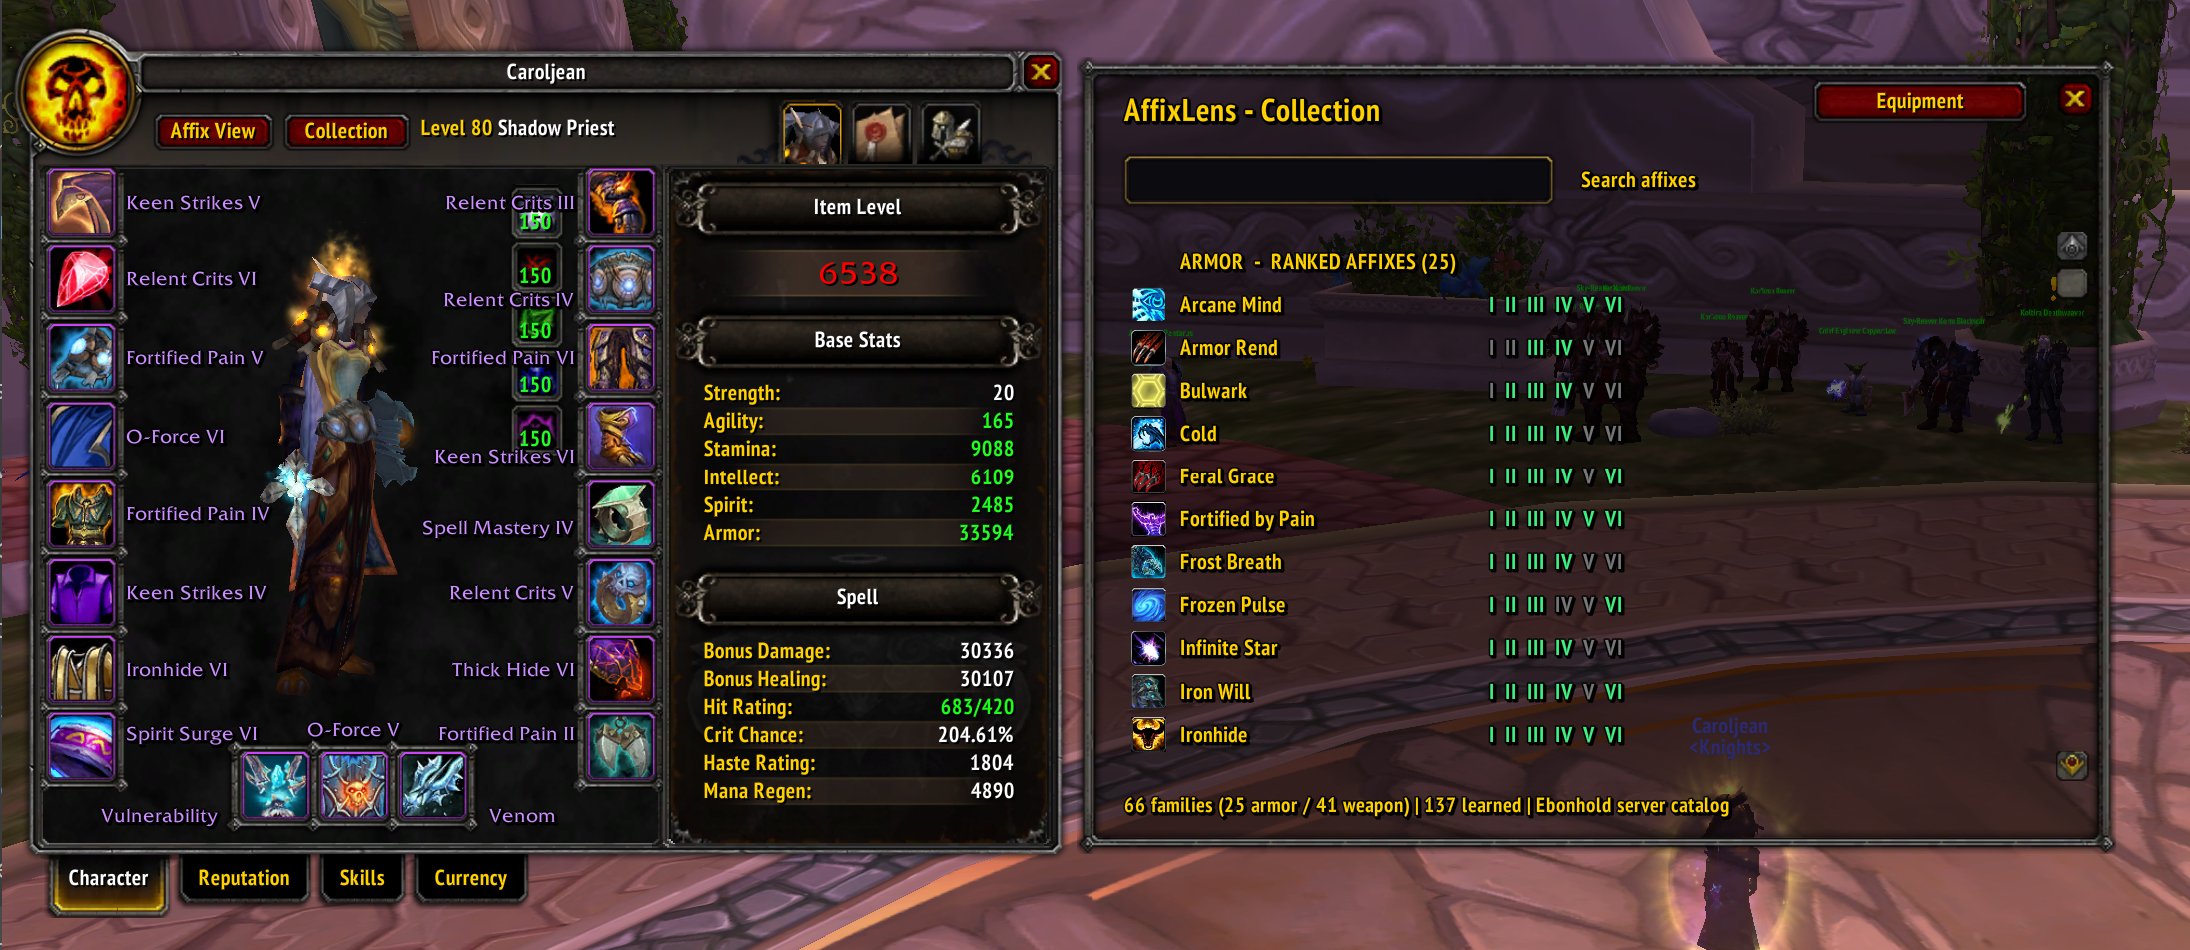
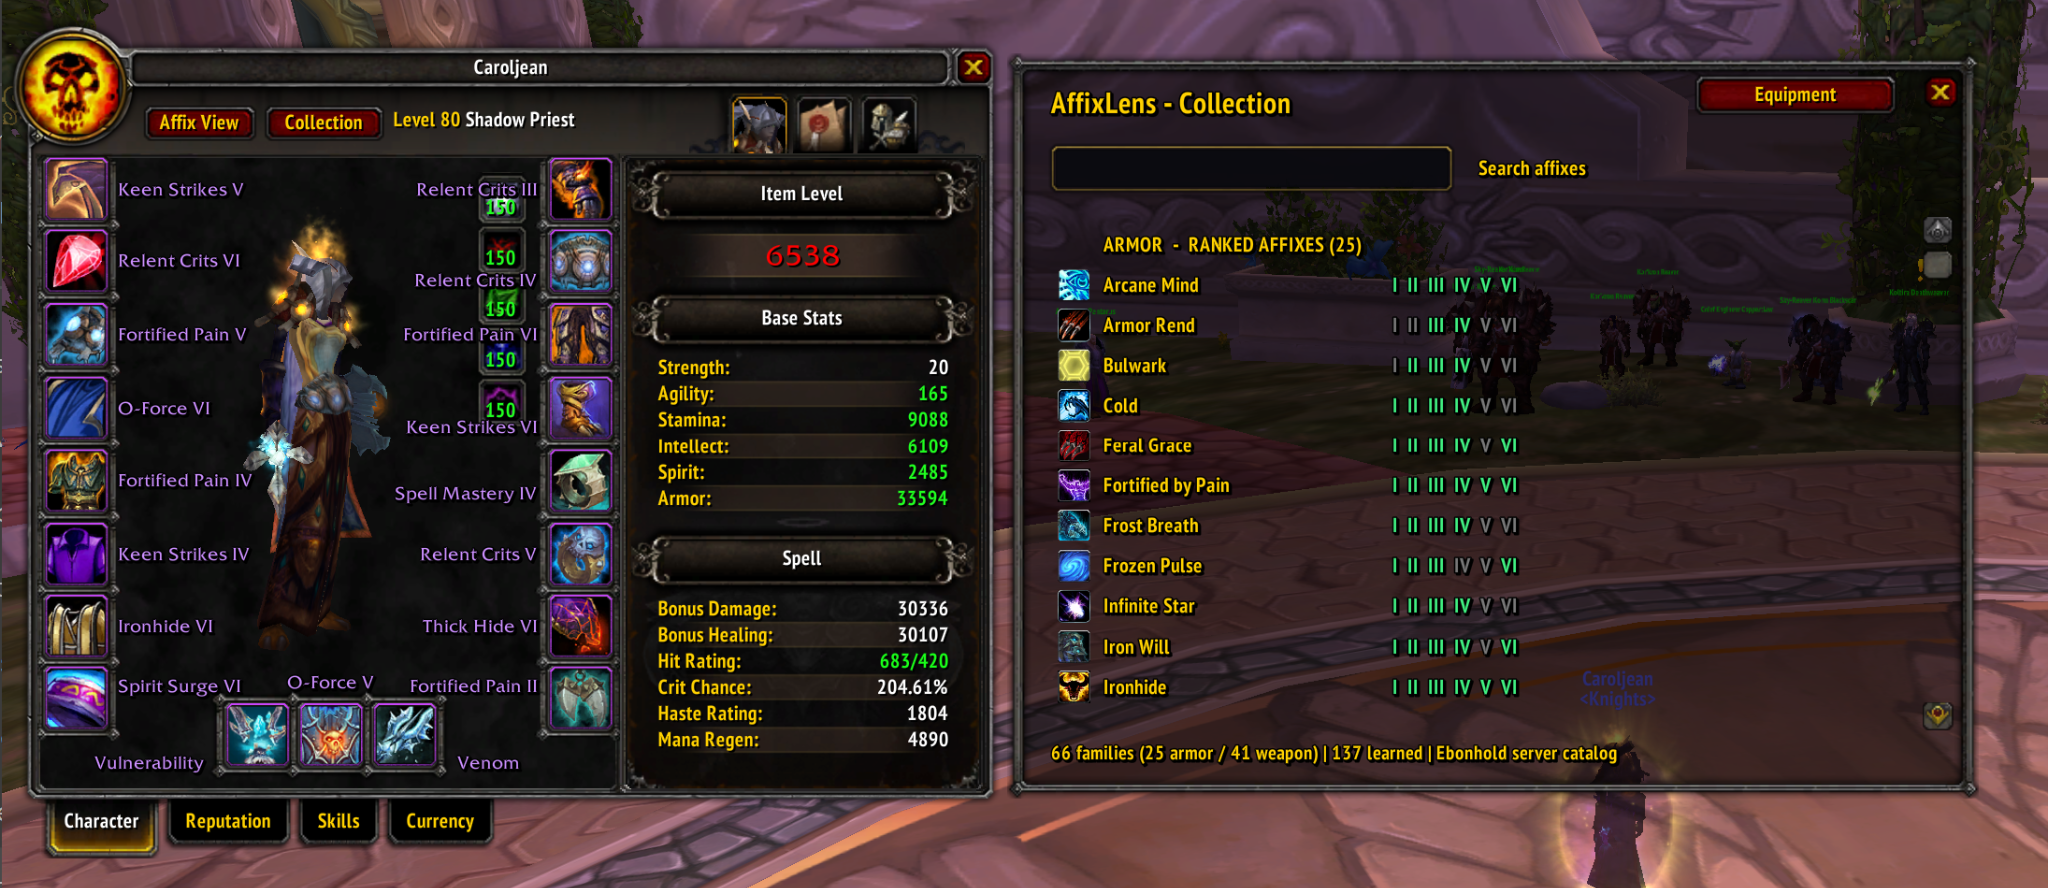
Improve README and add final AffixLens screenshots

diff --git a/README.md b/README.md
@@ -1,49 +1,80 @@
 # AffixLens
 
-**Project Ebonhold addon for World of Warcraft 3.3.5a**
+**Your equipped affixes, learned ranks, and collection — all in one place.**
 
-AffixLens shows the affix attached to each equipped item right on the character sheet, and provides two additional, switchable views.
+![Release](https://img.shields.io/badge/release-v2.0.0-blue) ![WoW](https://img.shields.io/badge/WoW-3.3.5a-orange) ![Server](https://img.shields.io/badge/server-Project%20Ebonhold-purple)
 
-## Features
+AffixLens is an addon for **Project Ebonhold** (World of Warcraft 3.3.5a). It shows affixes right on your character sheet, gives you a complete equipped-gear breakdown, and tracks which armor ranks and weapon affixes you have learned.
 
-- **Equipment labels** on the character sheet, including weapon affixes such as Vulnerability and Venom.
-- **Affix View:** a movable, closable equipment table with item names, affixes, and duplicate-affix warnings.
-- **Collection:** alphabetical **Armor (ranked)** and **Weapon (unranked)** sections, learned status, available ranks, and search.
-- Different ranks of the same affix are allowed together. Duplicate warnings check the exact affix **and rank**; unranked weapon-only affixes are excluded.
-- Affix names display without a leading `of`; escaped apostrophes are normalized. Space-constrained labels use meaningful abbreviations instead of arbitrary ellipses.
-- Buttons on the character window toggle the corresponding view, opening one closes the other, and closing the character window closes both.
-- Uses Ebonhold's server-provided affix catalog when available; falls back to bundled information as needed.
-
-## Installation
-
-1. Download **AffixLens-v2.0.0.zip** from **Releases**.
-2. Extract the included `AffixLens` folder to `World of Warcraft\Interface\AddOns\`.
-3. Start the WoW 3.3.5a client (or `/reload` if replacing an installed version).
-4. Open your character sheet (`C`) and click **Affix View** or **Collection**.
-
-## Commands
-
-- `/affixcollection` — toggle collection view
-- `/affixcollection scan` — refresh learned affixes
-- `/affixes` — equipment-view command (see in-game help for other debug options)
-
-## Scope / not yet integrated
-
-This release includes **local collection tracking**, not the entirety of upstream AffixDex. Party comparison, previously seen player history, bag glow, and extended learned-state tooltip annotations are **not yet included**.
+**[Download AffixLens](https://github.com/StabbyMcStaber/AffixLens/releases/latest)** · **[Report a problem](https://github.com/StabbyMcStaber/AffixLens/issues)**
 
 ## Screenshots
 
-### Character Window
-![Character Window](docs/screenshots/equipment-view.png)
+### Your gear, at a glance
 
-### Collection View
-![Collection View](docs/screenshots/collection-view.png)
+Affix names sit beside your equipment slots — including the main-hand and ranged weapon affixes. Long names use readable abbreviations rather than losing the important part to `...`.
 
-### Equipped Affixes Popup
-![Equipped Affixes Popup](docs/screenshots/equipment-popup.png)
+![AffixLens equipment labels in the character window](docs/screenshots/AffixLens_1.png)
 
-## Credit and third-party notices
+### Collection: armor ranks and weapon affixes
 
-Created by **Stan**, with assistance from **CarolJean**.
+Browse two alphabetical groups: **Armor** (available Roman-numeral ranks, learned or missing) and **Weapon** (learned or not learned). Filter by name with the search field. The list uses the Ebonhold runtime catalog where available, so affixes don't all have to share the same maximum rank.
 
-AffixDex by **Noturpalguy** (https://github.com/kwilliams312/AffixDex) informed catalog integration and mappings. The upstream MIT copyright and license are preserved in [`AffixLens/THIRD_PARTY_LICENSES.txt`](AffixLens/THIRD_PARTY_LICENSES.txt). No ownership of that work is claimed.
+![AffixLens collection tracker](docs/screenshots/AffixLens_2.png)
+
+### Detailed equipment overview
+
+Open a movable overview listing every equipped item and its current affix. Hover an entry to inspect its equipment tooltip.
+
+![AffixLens equipped affixes overview](docs/screenshots/AffixLens_3.png)
+
+## Features
+
+- **Inline equipment labels:** Read each equipped item's affix in your character window. Supports armor, rings, trinkets, main-hand, off-hand, and ranged equipment. Shows `N/A` when no affix is detected.
+- **Detailed Affix View:** Inspect slot, item, and affix together in a separate movable window.
+- **Accurate duplicate checks:** `Keen Strikes V` and `Keen Strikes VI` are *different* ranks, not duplicates. Only identical ranked affixes are flagged; unranked weapon-only affixes are exempt.
+- **Collection tracker:** Separate alphabetical armor/weapon sections, learned state, real available ranks, and search.
+- **Weapon recognition:** Identifies named weapon affixes such as **Vulnerability** and **Venom**, not just their proc descriptions.
+- **Cleaner labels:** Removes the leading `of`, handles escaped apostrophes, and abbreviates long names meaningfully.
+- **Simple window controls:** **Affix View** and **Collection** buttons appear on the character sheet. Clicking the active view closes it; switching views closes the previous one; closing your character window closes both.
+- **Ebonhold-aware:** Reads the server-provided affix catalog when available, with fallback information for startup.
+
+## Installation
+
+1. Download the latest **AffixLens** ZIP from [Releases](https://github.com/StabbyMcStaber/AffixLens/releases/latest).
+2. Extract it and place the **`AffixLens`** folder in:
+
+   ```text
+   World of Warcraft\Interface\AddOns\AffixLens\
+   ```
+
+3. Start the WoW 3.3.5a client. For an update to an existing addon, `/reload` is generally sufficient; a first install may require restarting the game.
+4. Open your character window with **C**, then choose **Affix View** or **Collection**.
+
+## Commands
+
+| Command | Action |
+|---|---|
+| `/affixes` | Equipment view / available equipment commands |
+| `/affixcollection` | Toggle Collection |
+| `/affixcollection scan` | Refresh your learned collection |
+
+## Compatibility and scope
+
+- **Game:** World of Warcraft 3.3.5a (Wrath of the Lich King)
+- **Server:** Project Ebonhold
+- **Standalone:** Does **not** require AffixDex to be installed
+
+Version 2.0.0 includes **local** collection tracking. Features from AffixDex such as party comparisons, historical player snapshots, bag highlighting, and expanded learned-state tooltip annotations are **not included** in this release.
+
+## Credits
+
+Created by **Stan**, with development assistance from **CarolJean (ChatGPT)**.
+
+Thanks to **Noturpalguy**, author of [AffixDex](https://github.com/kwilliams312/AffixDex), whose Ebonhold catalog and detection work informed this addon. Original MIT copyright and license notices are preserved in [THIRD_PARTY_LICENSES.txt](AffixLens/THIRD_PARTY_LICENSES.txt). AffixDex remains the original author's work.
+
+## Feedback
+
+Found something wrong or have an idea? [Open an issue](https://github.com/StabbyMcStaber/AffixLens/issues) with the item name, expected affix, and a screenshot if possible.
+
+**Happy farming!**
